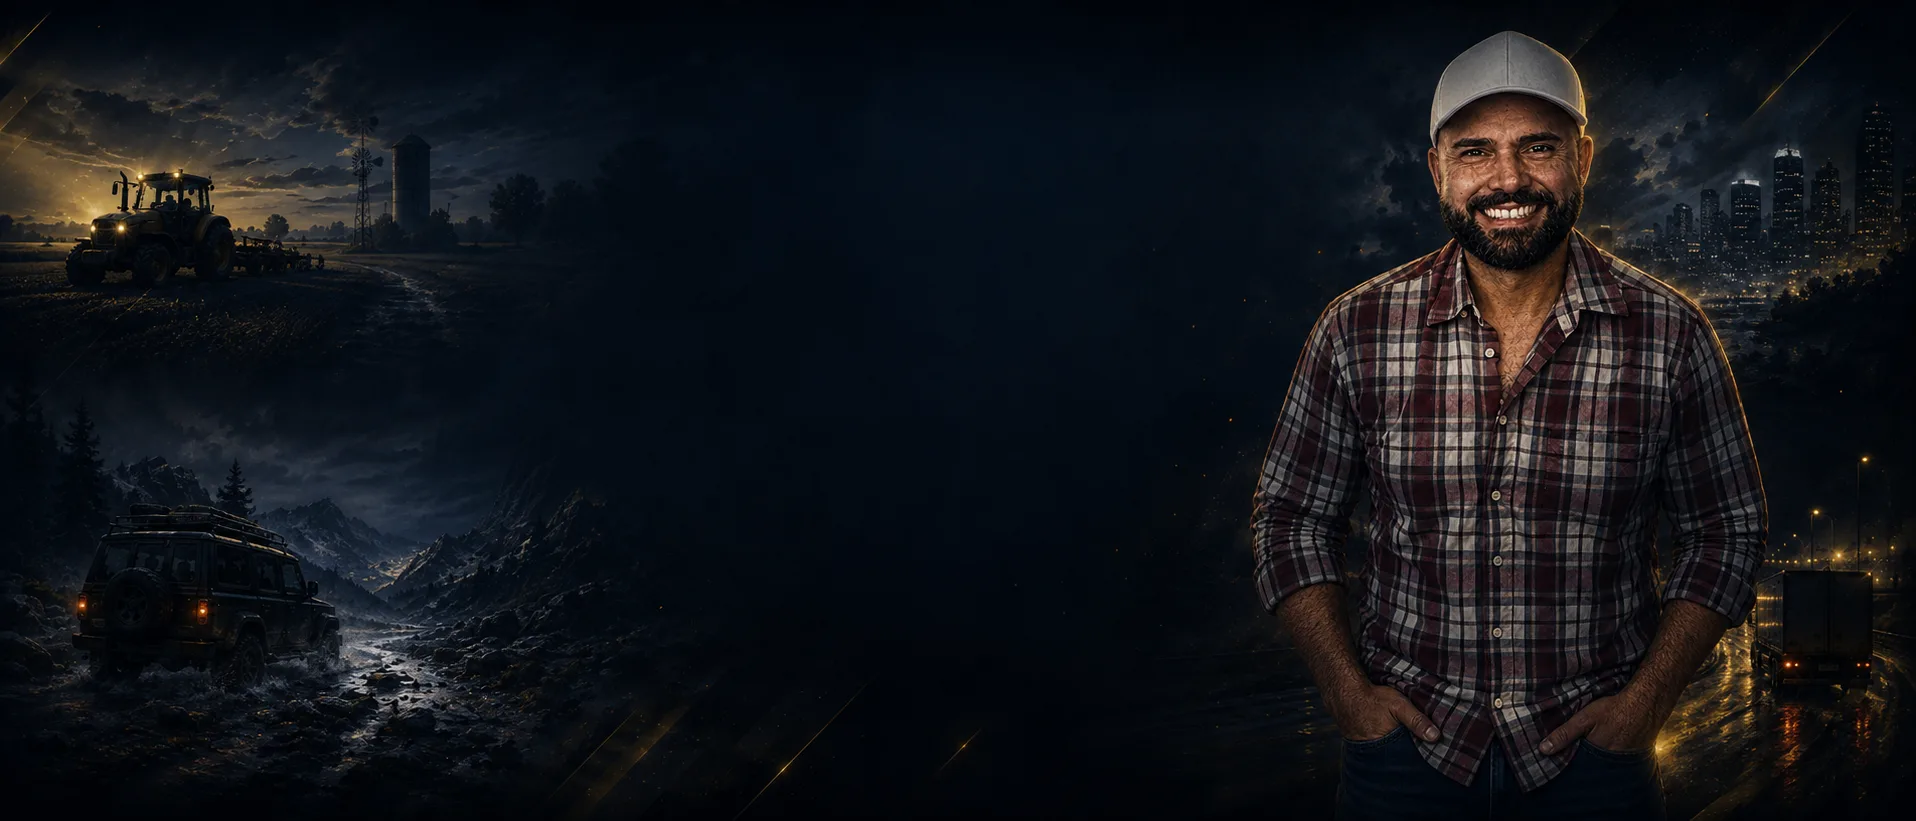
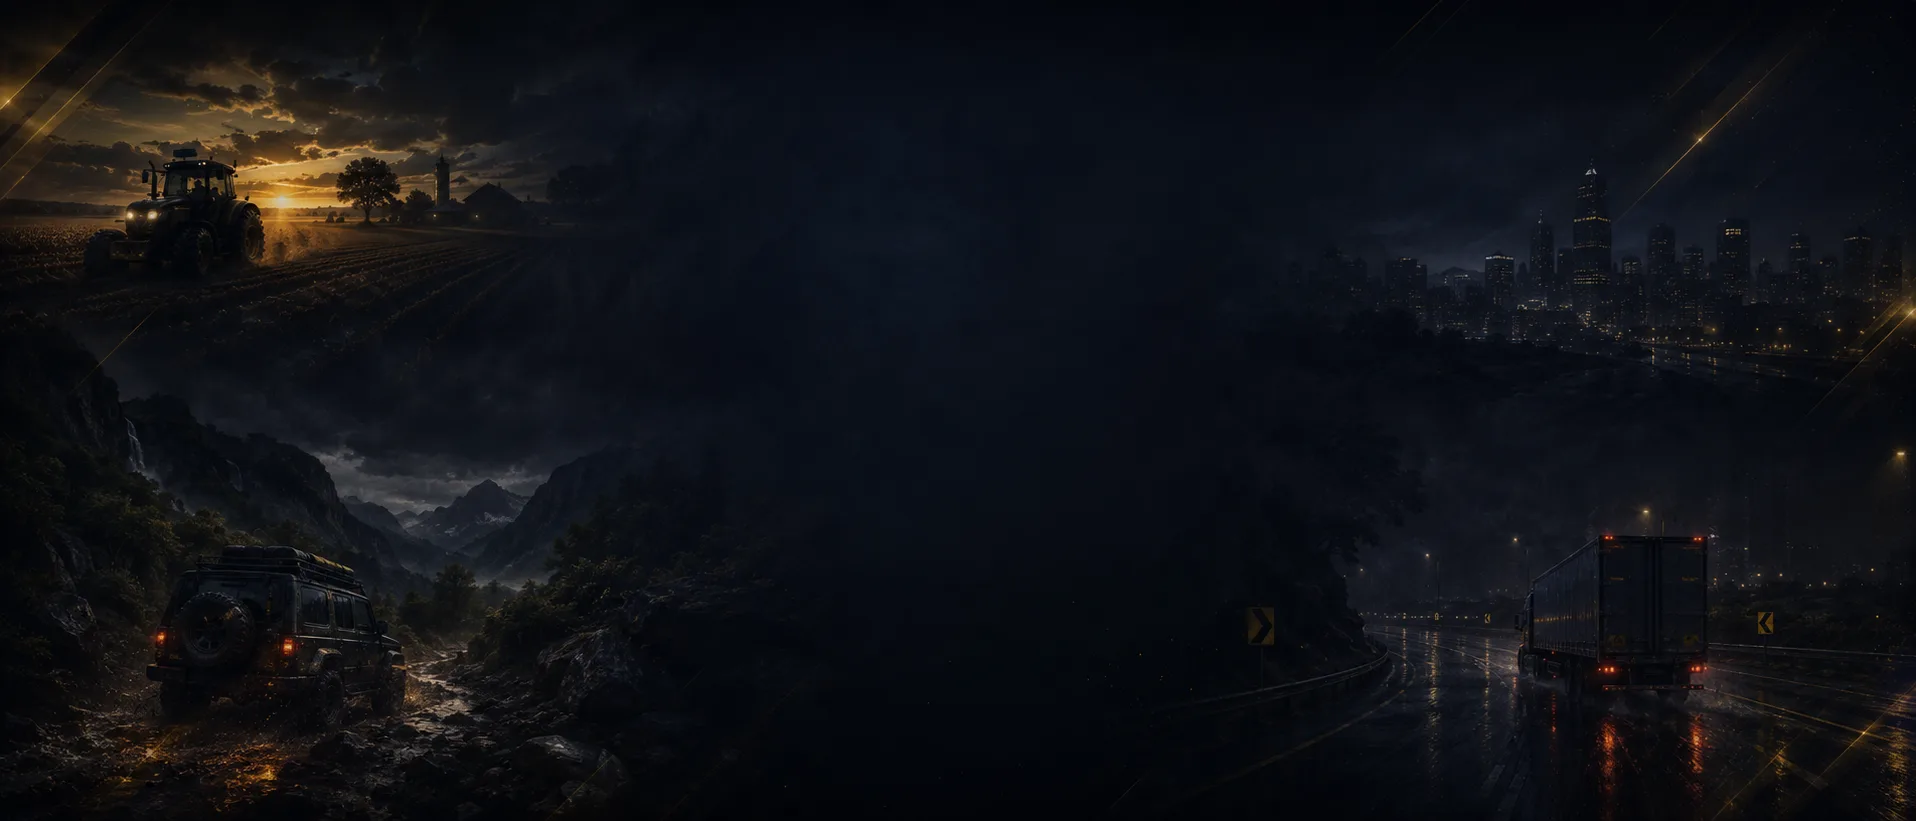
Fundo genérico no body de todas as páginas, Galindo só no Sobre
body-bg.webp volta a ser a versão sem pessoa (usada em todo o site). A
versão com o Galindo na cena vira about-bg.webp, aplicada só na seção
"Quem é o Galindo?" da página Sobre — remove o banner fixo antigo
(about-galindo.webp) e deixa o texto sozinho, alinhado à esquerda, com o
Galindo aparecendo no fundo à direita da própria seção.

diff --git a/src/routes/Sobre.tsx b/src/routes/Sobre.tsx
@@ -44,52 +44,52 @@ export function Sobre() {
         </Reveal>
       </section>
 
-      <section className="pb-16 sm:pb-24">
+      <section
+        className="pb-16 sm:pb-24"
+        style={{
+          backgroundImage: 'url(/assets/about-bg.webp)',
+          backgroundSize: 'cover',
+          backgroundPosition: 'right center',
+          backgroundRepeat: 'no-repeat',
+        }}
+      >
         <Reveal>
           <Container>
-            <div className="grid grid-cols-1 items-start gap-8 lg:grid-cols-2">
-              <img
-                src="/assets/about-galindo.webp"
-                alt="GalindoGamerBR em sua estação de jogos"
-                className="w-full rounded-lg border border-line object-cover"
-              />
-              <div>
-                <Eyebrow>Quem é o Galindo?</Eyebrow>
-                <h2 className="text-2xl sm:text-3xl">
-                  EU NÃO CRIEI APENAS UM CANAL. CRIEI UM LUGAR PARA COMPARTILHAR UMA PAIXÃO.
-                </h2>
-                <div className="mt-4 space-y-4 text-muted">
-                  <p>
-                    <strong className="text-white">
-                      Tenho 41 anos, sou casado, trabalho na cidade e tenho uma vida como qualquer pessoa que corre
-                      atrás dos seus objetivos.
-                    </strong>{' '}
-                    Mas existe uma parte que nunca ficou para trás: aquele garoto que descobriu, nos videogames e na
-                    época do Windows 95, que uma tela podia abrir portas para mundos inteiros.
-                  </p>
-                  <p>
-                    Os anos passaram. Vieram responsabilidades, trabalho, família e uma vida cada vez mais corrida.
-                    Só que a paixão pelos jogos continuou ali. E foi justamente dessa paixão que nasceu o
-                    GalindoGamerBR.
-                  </p>
-                  <p>
-                    As lives são a maneira de colocar essa paixão para fora e mostrar um pedaço da vida para o mundo.
-                    Não é apenas ligar o jogo e transmitir: é entrar em contato com pessoas, conhecer histórias, rir,
-                    trocar ideia e construir lembranças que não existiriam jogando sozinho.
-                  </p>
-                  <p>
-                    <strong className="text-white">Uma boa live precisa fazer alguém querer voltar.</strong> Pode ser
-                    pela resenha, pelo gameplay, pela história de uma fazenda, por um momento inesperado no roleplay
-                    ou simplesmente porque existe alguém do outro lado disposto a conversar.
-                  </p>
-                </div>
-                <div className="mt-6 flex flex-wrap gap-2">
-                  {CHIPS.map((chip) => (
-                    <span key={chip} className="rounded-full border border-line bg-panel2 px-3 py-1 text-xs text-white/80">
-                      {chip}
-                    </span>
-                  ))}
-                </div>
+            <div className="max-w-xl">
+              <Eyebrow>Quem é o Galindo?</Eyebrow>
+              <h2 className="text-2xl sm:text-3xl">
+                EU NÃO CRIEI APENAS UM CANAL. CRIEI UM LUGAR PARA COMPARTILHAR UMA PAIXÃO.
+              </h2>
+              <div className="mt-4 space-y-4 text-muted">
+                <p>
+                  <strong className="text-white">
+                    Tenho 41 anos, sou casado, trabalho na cidade e tenho uma vida como qualquer pessoa que corre
+                    atrás dos seus objetivos.
+                  </strong>{' '}
+                  Mas existe uma parte que nunca ficou para trás: aquele garoto que descobriu, nos videogames e na
+                  época do Windows 95, que uma tela podia abrir portas para mundos inteiros.
+                </p>
+                <p>
+                  Os anos passaram. Vieram responsabilidades, trabalho, família e uma vida cada vez mais corrida. Só
+                  que a paixão pelos jogos continuou ali. E foi justamente dessa paixão que nasceu o GalindoGamerBR.
+                </p>
+                <p>
+                  As lives são a maneira de colocar essa paixão para fora e mostrar um pedaço da vida para o mundo.
+                  Não é apenas ligar o jogo e transmitir: é entrar em contato com pessoas, conhecer histórias, rir,
+                  trocar ideia e construir lembranças que não existiriam jogando sozinho.
+                </p>
+                <p>
+                  <strong className="text-white">Uma boa live precisa fazer alguém querer voltar.</strong> Pode ser
+                  pela resenha, pelo gameplay, pela história de uma fazenda, por um momento inesperado no roleplay ou
+                  simplesmente porque existe alguém do outro lado disposto a conversar.
+                </p>
+              </div>
+              <div className="mt-6 flex flex-wrap gap-2">
+                {CHIPS.map((chip) => (
+                  <span key={chip} className="rounded-full border border-line bg-panel2 px-3 py-1 text-xs text-white/80">
+                    {chip}
+                  </span>
+                ))}
               </div>
             </div>
           </Container>
